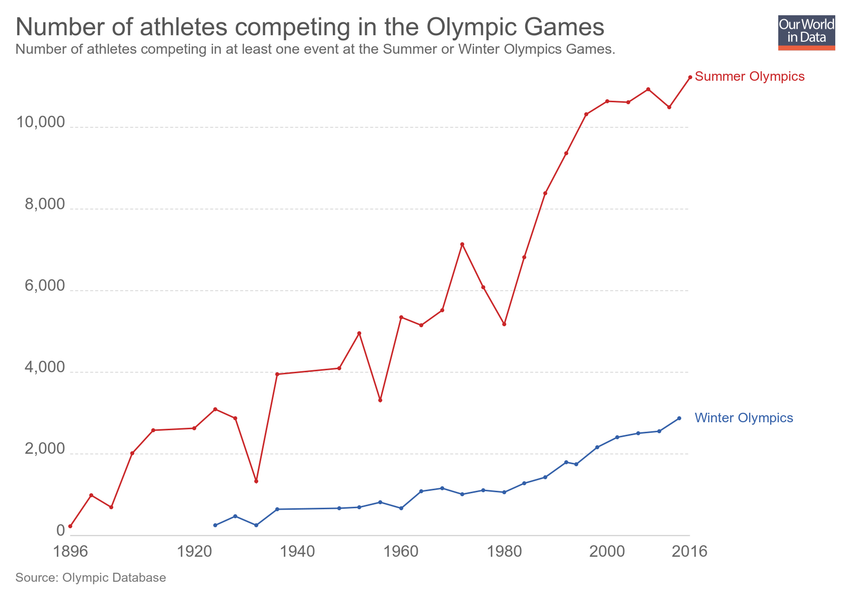
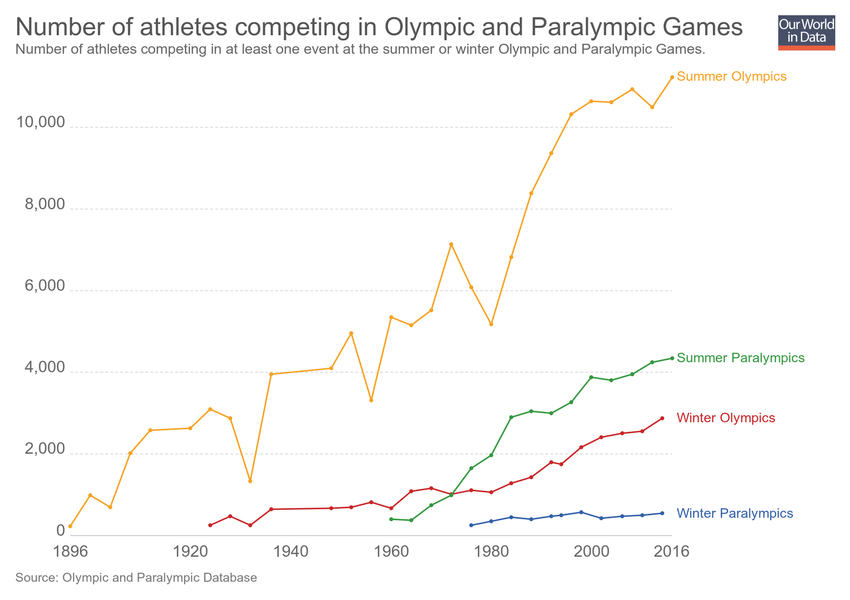
Updating chart athletes-in-olympics

diff --git a/grapher/athletes-in-olympics.html b/grapher/athletes-in-olympics.html
@@ -1,4 +1,4 @@
-<!doctype html><html><head><meta name="viewport" content="width=device-width, initial-scale=1" /><title>Number of athletes competing in the Olympic Games - Our World in Data</title><meta name="description" content="Number of athletes competing in at least one event at the Summer or Winter Olympics Games." /><link rel="canonical" href="https://ourworldindata.org/grapher/athletes-in-olympics" /><meta property="fb:app_id" content="1149943818390250" /><meta property="og:url" content="https://ourworldindata.org/grapher/athletes-in-olympics" /><meta property="og:title" content="Number of athletes competing in the Olympic Games" /><meta property="og:description" content="Number of athletes competing in at least one event at the Summer or Winter Olympics Games." /><meta property="og:image" content="https://ourworldindata.org/grapher/exports/athletes-in-olympics.png?v=3" /><meta property="og:image:width" content="850" /><meta property="og:image:height" content="600" /><meta property="og:site_name" content="Our World in Data" /><meta name="twitter:card" content="summary_large_image" /><meta name="twitter:site" content="@OurWorldInData" /><meta name="twitter:creator" content="@OurWorldInData" /><meta name="twitter:title" content="Number of athletes competing in the Olympic Games" /><meta name="twitter:description" content="Number of athletes competing in at least one event at the Summer or Winter Olympics Games." /><meta name="twitter:image" content="https://ourworldindata.org/grapher/exports/athletes-in-olympics.png?v=3" /><style>
+<!doctype html><html><head><meta name="viewport" content="width=device-width, initial-scale=1" /><title>Number of athletes competing in Olympic and Paralympic Games - Our World in Data</title><meta name="description" content="Number of athletes competing in at least one event at the summer or winter Olympic and Paralympic Games." /><link rel="canonical" href="https://ourworldindata.org/grapher/athletes-in-olympics" /><meta property="fb:app_id" content="1149943818390250" /><meta property="og:url" content="https://ourworldindata.org/grapher/athletes-in-olympics" /><meta property="og:title" content="Number of athletes competing in Olympic and Paralympic Games" /><meta property="og:description" content="Number of athletes competing in at least one event at the summer or winter Olympic and Paralympic Games." /><meta property="og:image" content="https://ourworldindata.org/grapher/exports/athletes-in-olympics.png?v=5" /><meta property="og:image:width" content="850" /><meta property="og:image:height" content="600" /><meta property="og:site_name" content="Our World in Data" /><meta name="twitter:card" content="summary_large_image" /><meta name="twitter:site" content="@OurWorldInData" /><meta name="twitter:creator" content="@OurWorldInData" /><meta name="twitter:title" content="Number of athletes competing in Olympic and Paralympic Games" /><meta name="twitter:description" content="Number of athletes competing in at least one event at the summer or winter Olympic and Paralympic Games." /><meta name="twitter:image" content="https://ourworldindata.org/grapher/exports/athletes-in-olympics.png?v=5" /><style>
         html, body {
             height: 100%;
             margin: 0;
@@ -20,8 +20,8 @@
         }
     </style><noscript><style>
                     figure { display: none !important; }
-                </style></noscript><link rel="stylesheet" href="https://ourworldindata.org/grapher/assets/commons.bundle.b9f051796dbbbb7e5139.css" /><link rel="preload" href="/grapher/data/variables/97818+97820.json?v=3" as="fetch" crossorigin /></head><body class="singleChart"><figure data-grapher-src="/grapher/athletes-in-olympics"></figure><noscript id="fallback"><img src="/grapher/exports/athletes-in-olympics.svg" /><p>Interactive visualization requires JavaScript</p></noscript><script src="https://cdn.polyfill.io/v2/polyfill.min.js?features=es6,fetch"></script><script src="https://ourworldindata.org/grapher/assets/commons.bundle.b9f051796dbbbb7e5139.js"></script><script src="https://ourworldindata.org/grapher/assets/charts.bundle.b9f051796dbbbb7e5139.js"></script><script>
-        var jsonConfig = {"id":2962,"map":{"projection":"World","colorSchemeLabels":[],"colorSchemeValues":[],"customNumericColors":[],"customCategoryColors":{},"customCategoryLabels":{},"customHiddenCategories":{}},"tab":"chart","slug":"athletes-in-olympics","type":"LineChart","title":"Number of athletes competing in the Olympic Games","xAxis":{"scaleType":"linear"},"yAxis":{"min":0,"scaleType":"linear"},"version":3,"subtitle":"Number of athletes competing in at least one event at the Summer or Winter Olympics Games.","hasMapTab":false,"stackMode":"absolute","dimensions":[{"display":{"name":"Summer Olympics"},"property":"y","variableId":97818},{"display":{"name":"Winter Olympics"},"property":"y","variableId":97820}],"sourceDesc":"Olympic Database","hasChartTab":true,"isPublished":true,"selectedData":[{"index":0,"entityId":355},{"index":1,"entityId":355}],"addCountryMode":"change-country","hideTitleAnnotation":true};
+                </style></noscript><link rel="stylesheet" href="https://ourworldindata.org/grapher/assets/commons.bundle.b9f051796dbbbb7e5139.css" /><link rel="preload" href="/grapher/data/variables/97818+97820+97822+97824.json?v=5" as="fetch" crossorigin /></head><body class="singleChart"><figure data-grapher-src="/grapher/athletes-in-olympics"></figure><noscript id="fallback"><img src="/grapher/exports/athletes-in-olympics.svg" /><p>Interactive visualization requires JavaScript</p></noscript><script src="https://cdn.polyfill.io/v2/polyfill.min.js?features=es6,fetch"></script><script src="https://ourworldindata.org/grapher/assets/commons.bundle.b9f051796dbbbb7e5139.js"></script><script src="https://ourworldindata.org/grapher/assets/charts.bundle.b9f051796dbbbb7e5139.js"></script><script>
+        var jsonConfig = {"id":2962,"map":{"projection":"World","colorSchemeLabels":[],"colorSchemeValues":[],"customNumericColors":[],"customCategoryColors":{},"customCategoryLabels":{},"customHiddenCategories":{}},"tab":"chart","slug":"athletes-in-olympics","type":"LineChart","title":"Number of athletes competing in Olympic and Paralympic Games","xAxis":{"scaleType":"linear"},"yAxis":{"min":0,"scaleType":"linear"},"version":5,"subtitle":"Number of athletes competing in at least one event at the summer or winter Olympic and Paralympic Games.","hasMapTab":false,"stackMode":"absolute","dimensions":[{"display":{"name":"Summer Olympics"},"property":"y","variableId":97818},{"display":{"name":"Winter Olympics"},"property":"y","variableId":97820},{"display":{"name":"Summer Paralympics"},"property":"y","variableId":97822},{"display":{"name":"Winter Paralympics"},"property":"y","variableId":97824}],"sourceDesc":"Olympic and Paralympic Database","hasChartTab":true,"isPublished":true,"selectedData":[{"index":0,"entityId":355},{"index":1,"entityId":355},{"index":2,"entityId":355},{"index":3,"entityId":355}],"addCountryMode":"change-country","hideTitleAnnotation":true};
         var figure = document.getElementsByTagName("figure")[0];
         try {
             window.App = {};
